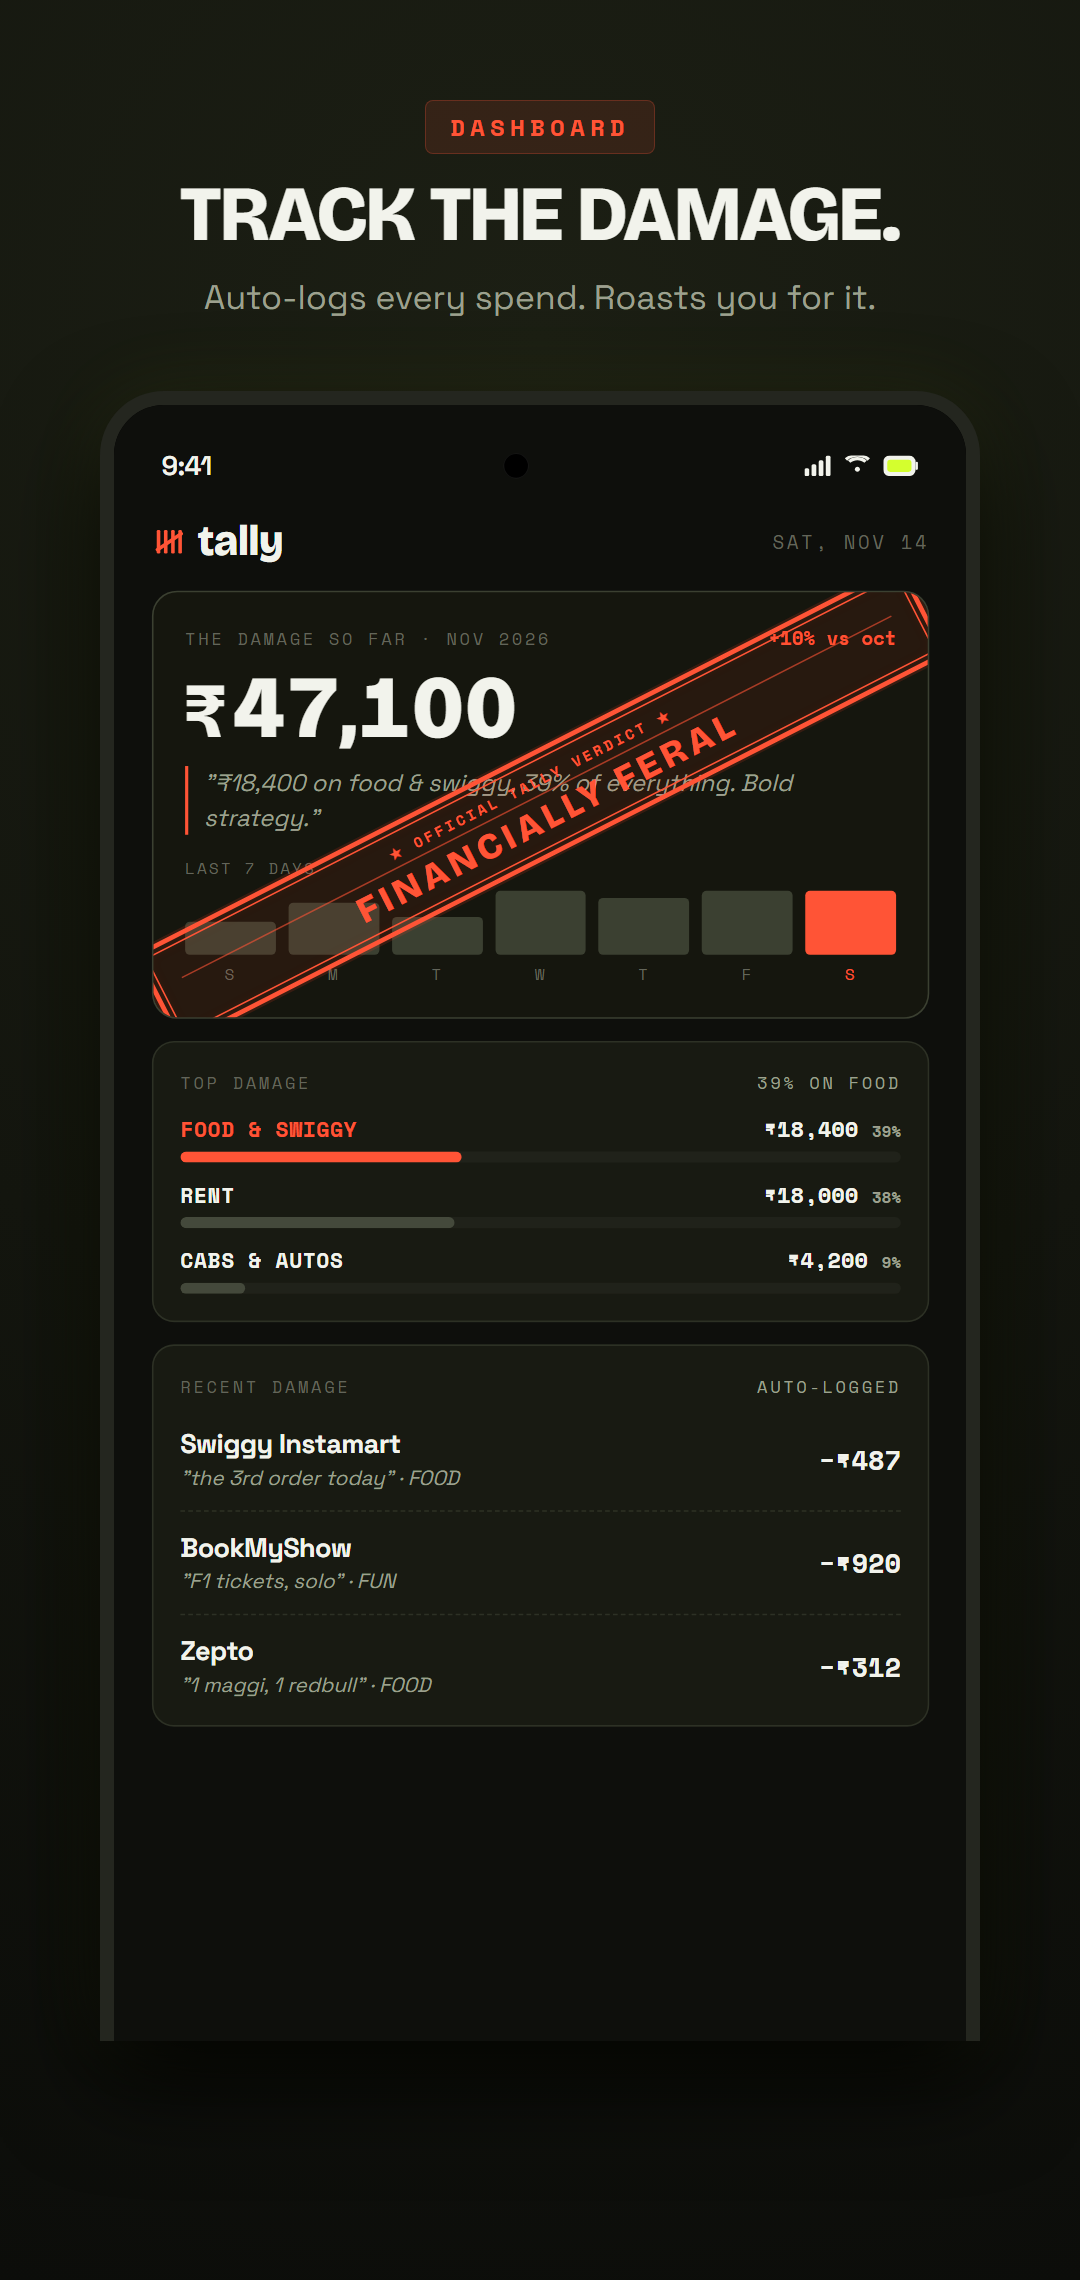
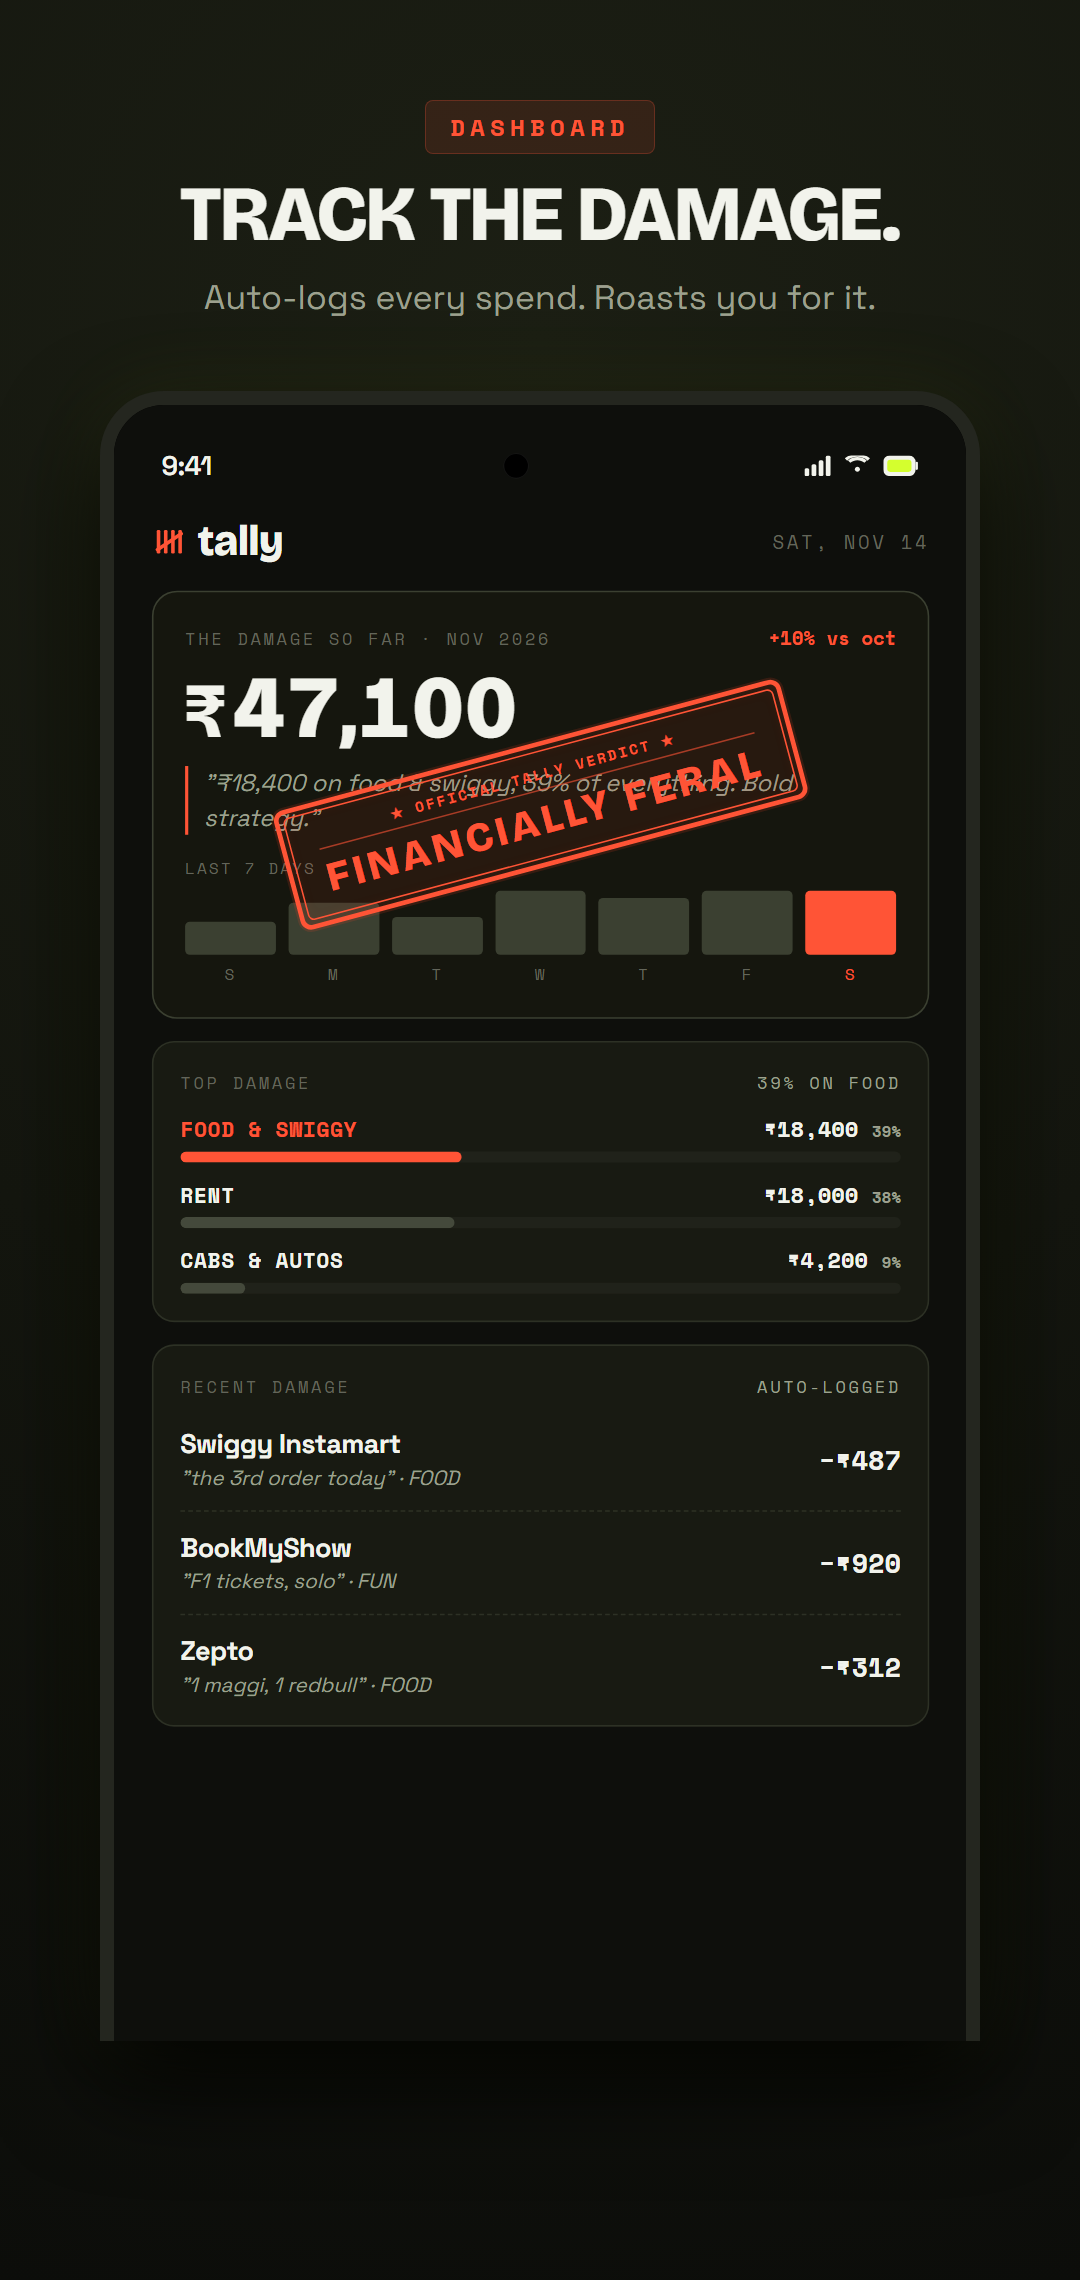
feat(stamp): keep Version C size and proportions (-15deg) without the bottom line

Changed region(s): [[0.1833, 0.2491, 0.8556, 0.436], [0.1222, 0.4048, 0.1833, 0.436], [0.2139, 0.436, 0.2444, 0.4671]]

diff --git a/src/tally/screens/HomeScreen.js b/src/tally/screens/HomeScreen.js
@@ -72,18 +72,17 @@ function FeralStampOverlay({ accent }) {
         transform: [
           { translateY: stampY },
           { scale: stampScale },
-          { rotate: '-27deg' },
+          { rotate: '-15deg' },
         ],
       }}
     >
-      {/* Authentic Diagonal Corner-to-Corner Rubber Stamp (Bottom-Left to Top-Right) */}
+      {/* Authentic Rubber Stamp (Version C Proportions without bottom line) */}
       <View
         style={{
-          width: 390,
-          borderWidth: 4,
+          borderWidth: 3.5,
           borderColor: stampInk,
           borderRadius: 10,
-          padding: 3.5,
+          padding: 3,
           backgroundColor: 'rgba(255, 68, 37, 0.08)',
           shadowColor: '#000',
           shadowOffset: { width: 0, height: 6 },
@@ -94,13 +93,13 @@ function FeralStampOverlay({ accent }) {
       >
         <View
           style={{
-            borderWidth: 1.8,
+            borderWidth: 1.5,
             borderColor: stampInk,
             borderRadius: 6,
-            paddingVertical: 6,
-            paddingHorizontal: 18,
+            paddingVertical: 8,
+            paddingHorizontal: 20,
             alignItems: 'center',
-            gap: 2.5,
+            gap: 3,
           }}
         >
           {/* Top Stamp Header */}
@@ -109,22 +108,22 @@ function FeralStampOverlay({ accent }) {
               fontFamily: FONTS.monoBold,
               fontSize: 8.5,
               color: stampInk,
-              letterSpacing: 2.2,
+              letterSpacing: 2,
               textTransform: 'uppercase',
             }}
           >
             ★ OFFICIAL TALLY VERDICT ★
           </Text>
 
-          <View style={{ width: '100%', height: 1.2, backgroundColor: stampInk, opacity: 0.55, marginVertical: 2 }} />
+          <View style={{ width: '100%', height: 1, backgroundColor: stampInk, opacity: 0.6, marginVertical: 3 }} />
 
           {/* Main Stamp Headline */}
           <Text
             style={{
               fontFamily: FONTS.display,
-              fontSize: 19,
+              fontSize: 22,
               color: stampInk,
-              letterSpacing: 3.2,
+              letterSpacing: 2.5,
               fontWeight: '900',
               textTransform: 'uppercase',
             }}

diff --git a/scripts/generate_screenshots.py b/scripts/generate_screenshots.py
@@ -396,8 +396,7 @@ def build_screen_dashboard():
   position: absolute;
   top: 50%;
   left: 50%;
-  transform: translate(-50%, -50%) rotate(-27deg);
-  width: 1090px;
+  transform: translate(-50%, -50%) rotate(-15deg);
   border: 6px solid var(--red);
   border-radius: 14px;
   padding: 5px;
@@ -410,20 +409,19 @@ def build_screen_dashboard():
   box-shadow: 0 0 0 3px rgba(255, 68, 37, 0.15), inset 0 0 20px rgba(255, 68, 37, 0.1);
 }}
 .stamp-feral-inner {{
-  width: 100%;
   border: 2.5px solid var(--red);
   border-radius: 8px;
-  padding: 10px 28px;
+  padding: 14px 34px;
   display: flex;
   flex-direction: column;
   align-items: center;
-  gap: 4px;
+  gap: 6px;
 }}
 .stamp-feral-tag {{
   font-family: var(--mono);
   font-size: 18px;
   font-weight: 700;
-  letter-spacing: 4px;
+  letter-spacing: 3px;
   color: var(--red);
   text-transform: uppercase;
 }}
@@ -435,13 +433,12 @@ def build_screen_dashboard():
 }}
 .stamp-feral-title {{
   font-family: var(--display);
-  font-size: 46px;
+  font-size: 52px;
   font-weight: 900;
-  letter-spacing: 6px;
+  letter-spacing: 5px;
   color: var(--red);
   text-transform: uppercase;
   white-space: nowrap;
-  line-height: 1.05;
 }}
 </style>
 </head>
